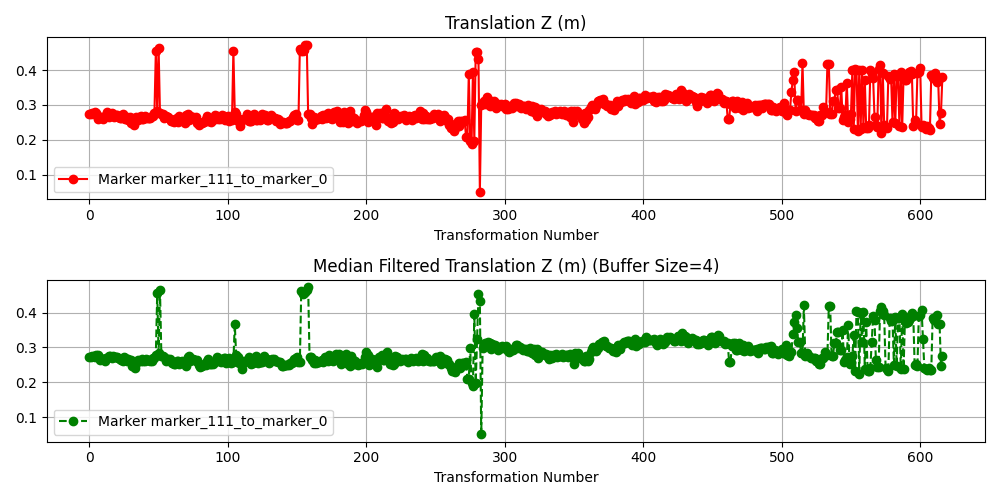
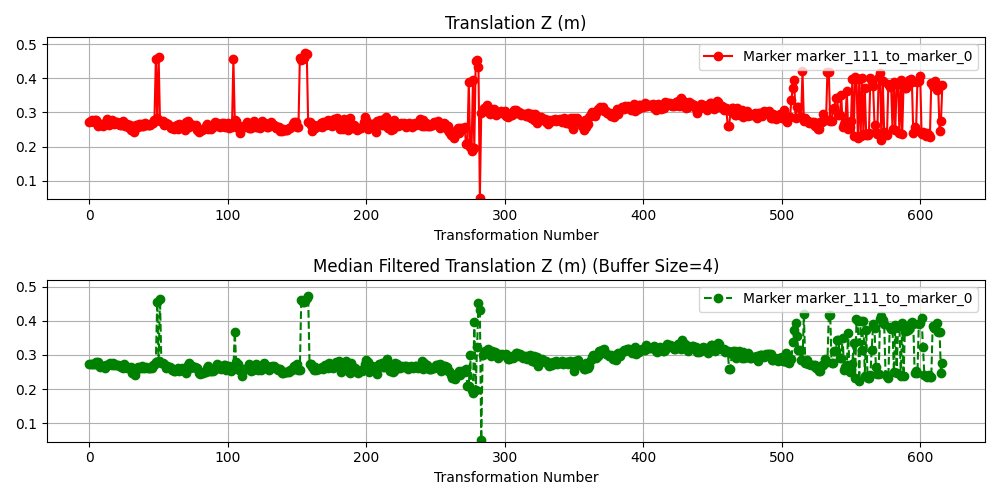
Improve Analysis Plot Y Limits

diff --git a/RosBag/analysis/analysis_script.py b/RosBag/analysis/analysis_script.py
@@ -35,6 +35,8 @@ def plot_line(ax, x, y, label, xlabel=None, ylabel=None, title=None, linestyle='
 # Function to plot marker metadata
 def plot_marker(marker_id, data, ax_value, ax_filtered, value, moving_avg, label, category_names, ros_bag_path='',
                 size_of_buffer=4, plot_values=True, plot_filtered=True):
+    y_min, y_max = float('inf'), float('-inf')
+
     if data is None:
         return
 
@@ -48,6 +50,11 @@ def plot_marker(marker_id, data, ax_value, ax_filtered, value, moving_avg, label
               f'Marker {marker_id}', ylabel='',
               title=f'{category_names[1]} {label} (Buffer Size={size_of_buffer})', linestyle='--', color='g')
 
+    y_min = min(y_min, min(value))
+    y_max = max(y_max, max(value))
+    ax_value.set_ylim(y_min-abs(y_min*0.1), y_max+abs(y_max*0.1))
+    ax_filtered.set_ylim(y_min-abs(y_min*0.1), y_max+abs(y_max*0.1))
+
     plt.tight_layout()
     os.makedirs(f'{ros_bag_path}/out/{marker_id}', exist_ok=True)
 
@@ -57,7 +64,7 @@ def plot_marker(marker_id, data, ax_value, ax_filtered, value, moving_avg, label
 
 # Main function to read the CSVs and generate the plots
 def main():
-    ros_bag_path = 'bag_111024/'
+    ros_bag_path = 'bag_241024_drone/'
     markers = {'marker_111_to_marker_0': 'marker_111_to_marker_0.csv', 'marker_222_to_marker_0': 'marker_222_to_marker_0.csv'}
     # markers = {'marker_0': 'marker_0.csv', 'marker_111': 'marker_111.csv', 'marker_222': 'marker_222.csv'}
 
